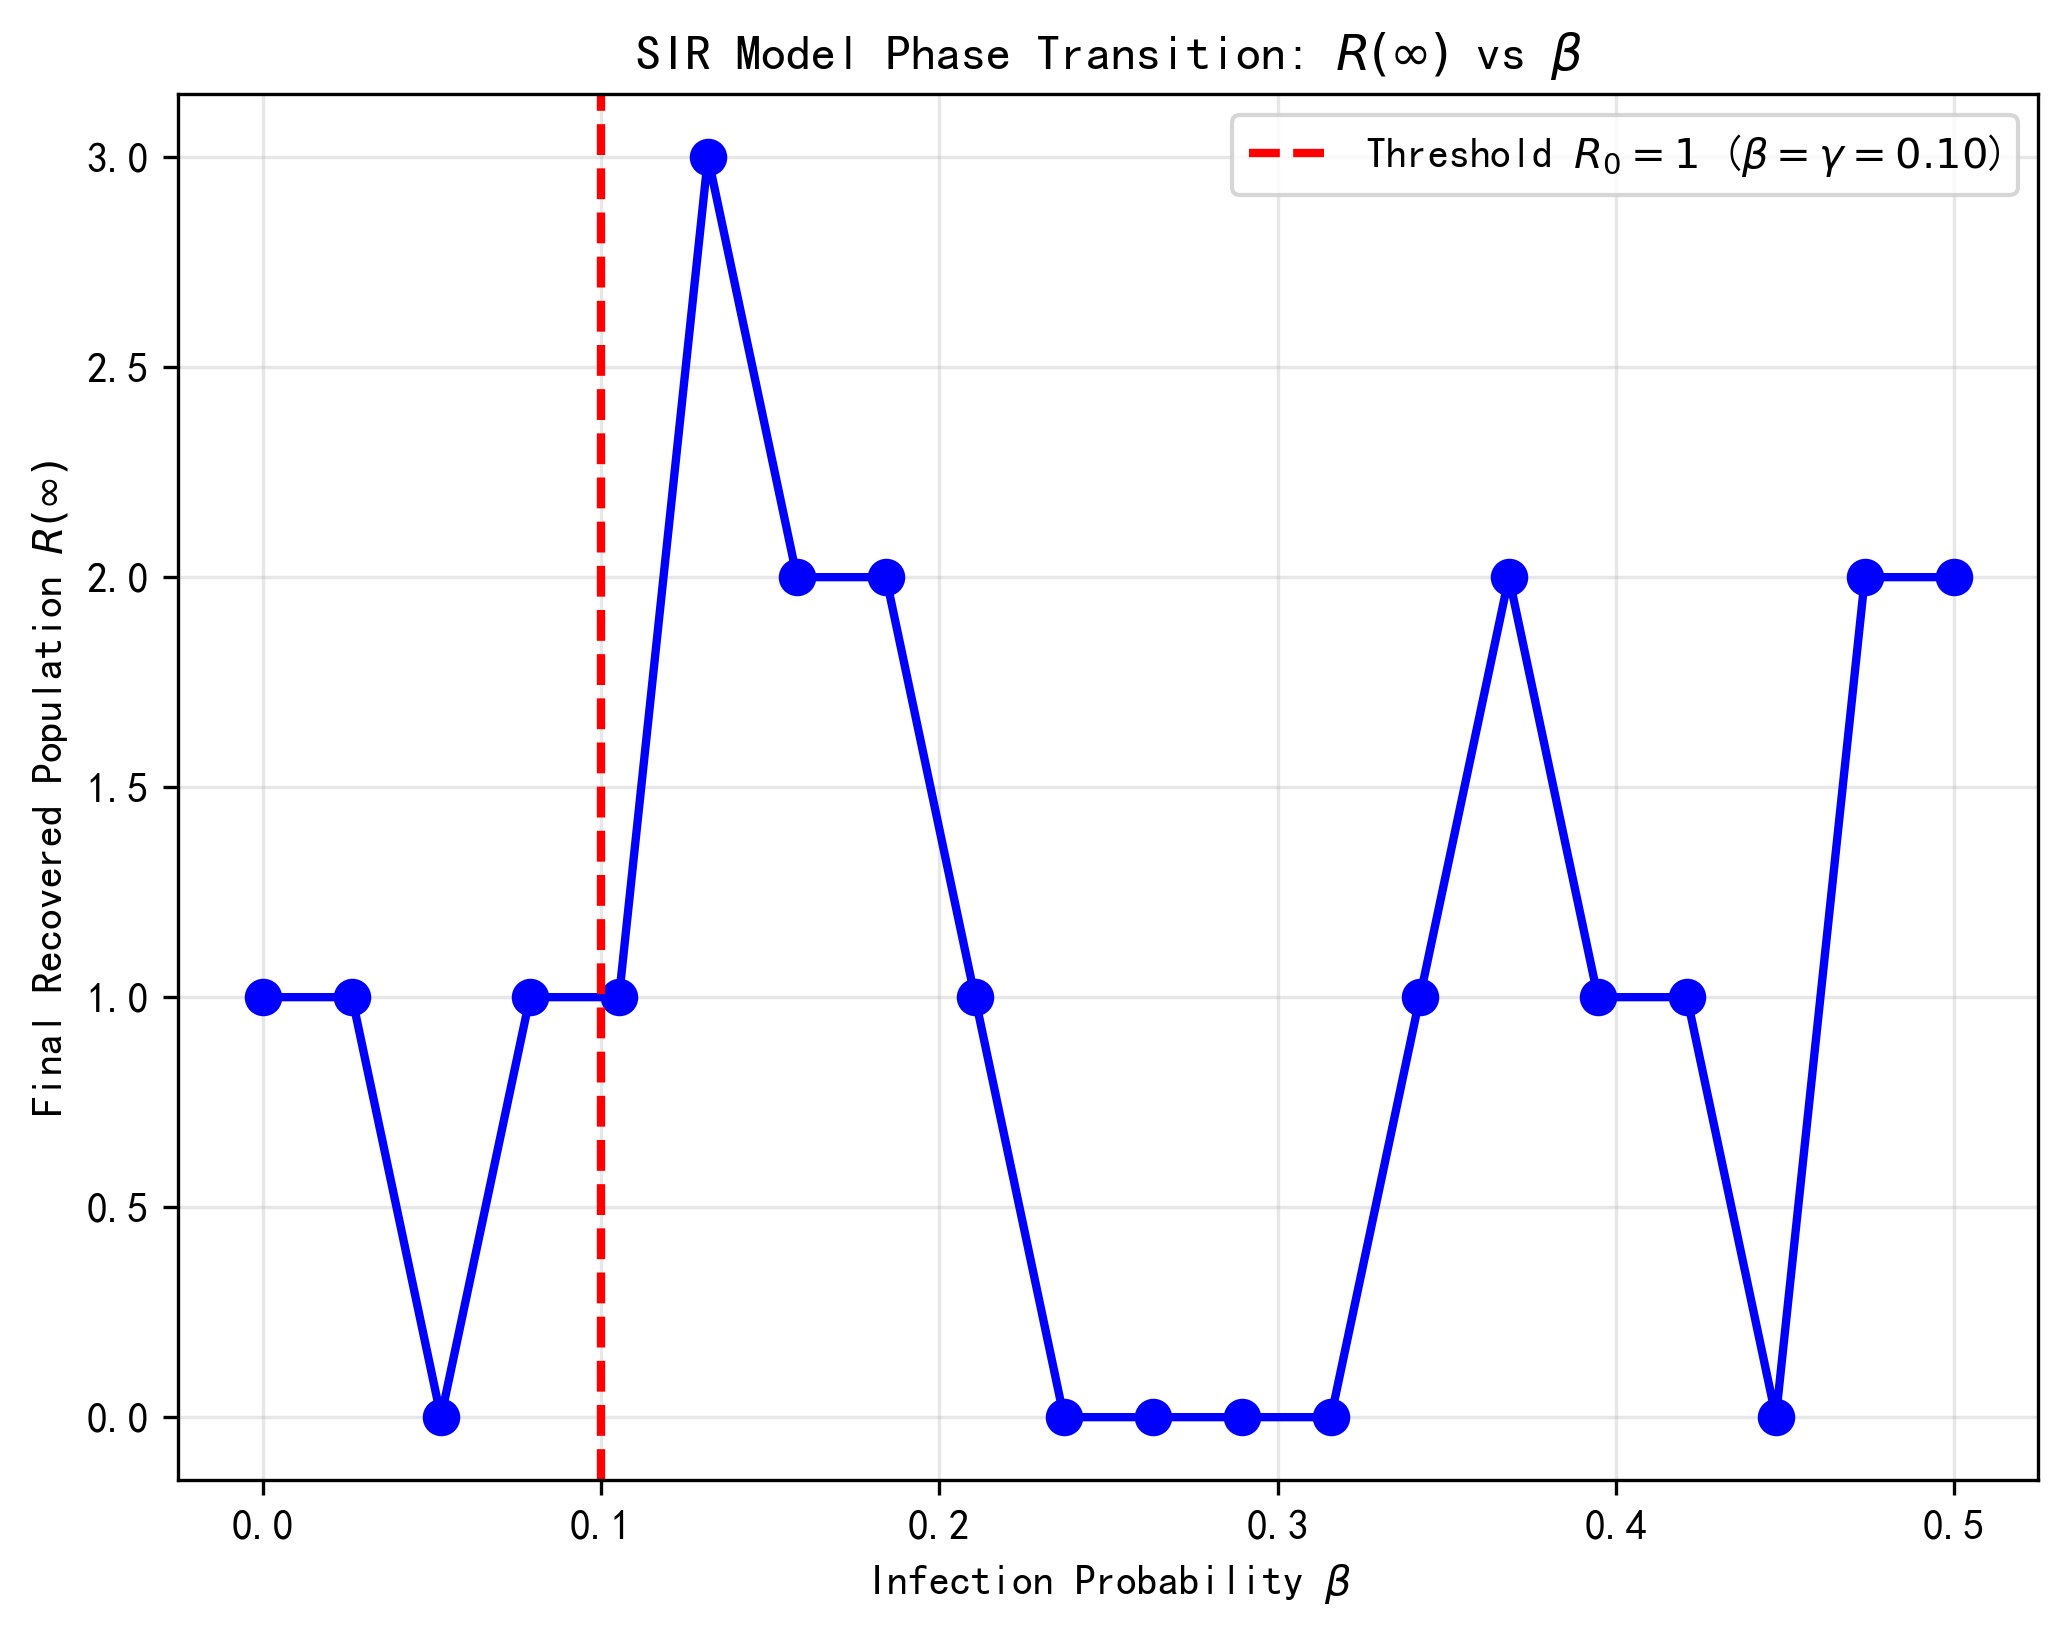
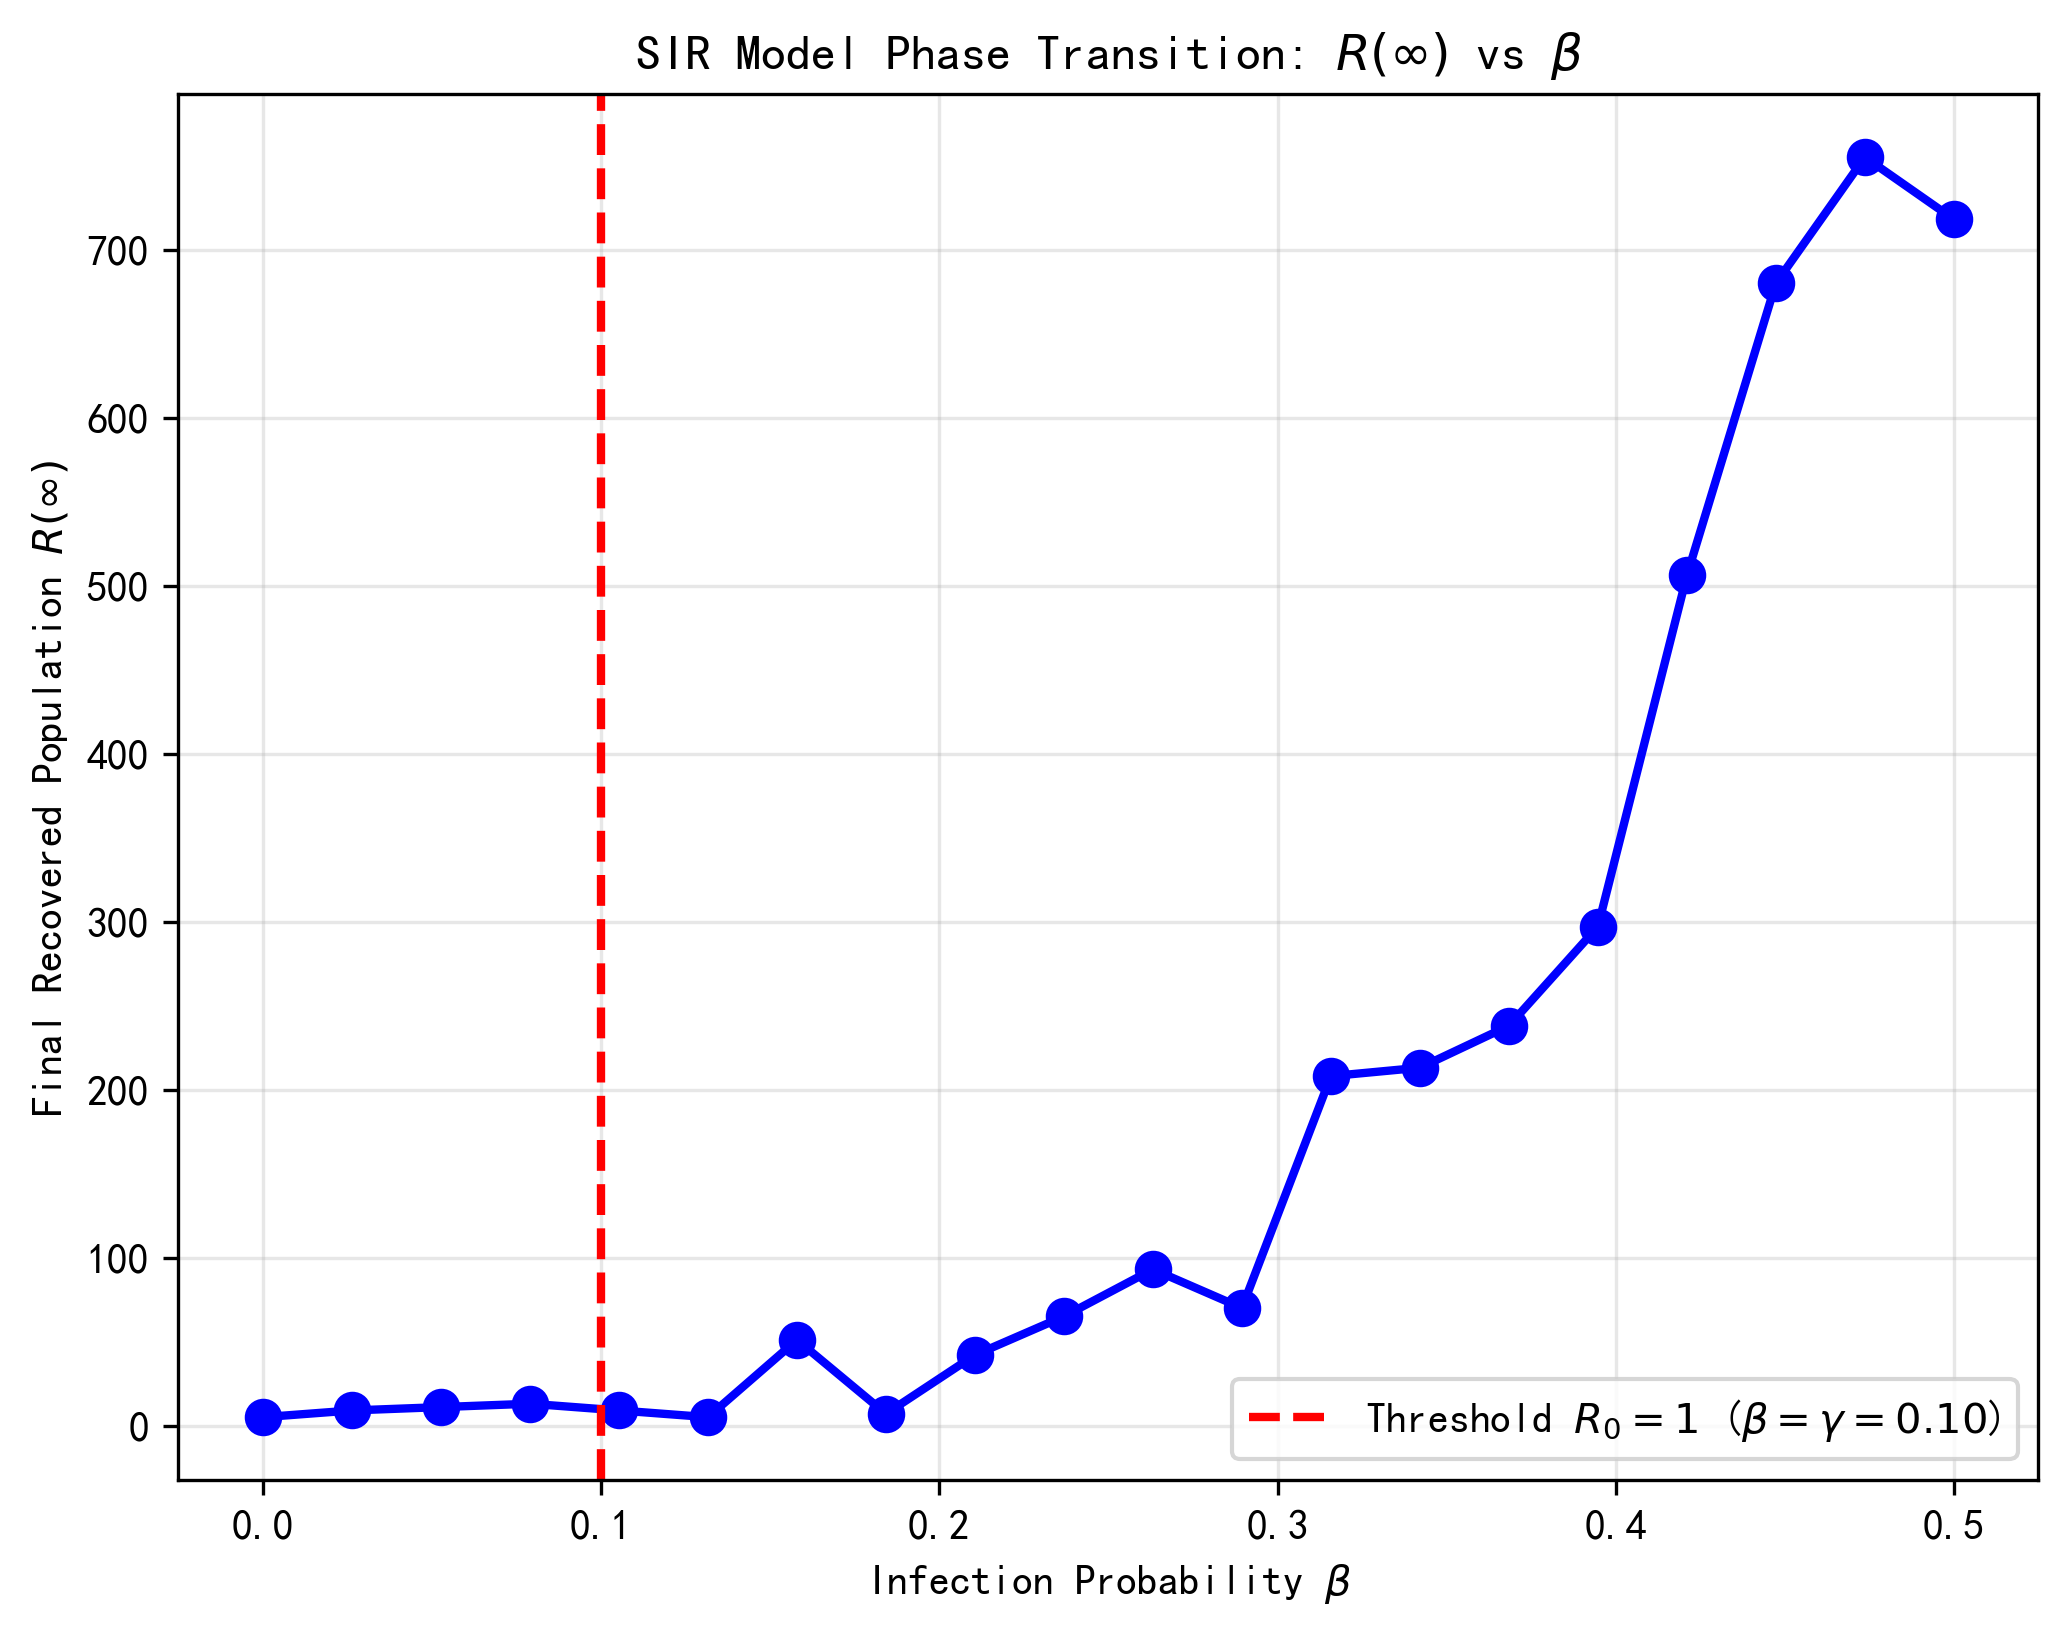
修改代码

diff --git a/2_Code/config.py b/2_Code/config.py
@@ -27,7 +27,7 @@ SIR_MODEL = {
     "beta": 0.3,               # 感染概率
     "gamma": 0.1,              # 恢复概率
     "initial_infected": 5,     # 初始感染人数
-    "num_steps": 5000,         # Monte Carlo 步数（从 500 增加到 5000）
+    "num_steps": 200000,       # Monte Carlo 步数（确保疾病充分传播）
     "seed": 456,               # 随机种子
 }
 
@@ -38,5 +38,5 @@ SIR_SCAN = {
     "beta_num": 20,            # 扫描点数
     "gamma": 0.1,              # 固定 gamma
     "grid_size": 50,           # 格点尺寸
-    "num_steps": 5000,         # 每个 beta 的 Monte Carlo 步数（从 500 增加到 5000）
+    "num_steps": 200000,       # 每个 beta 的 Monte Carlo 步数（确保充分传播）
 }